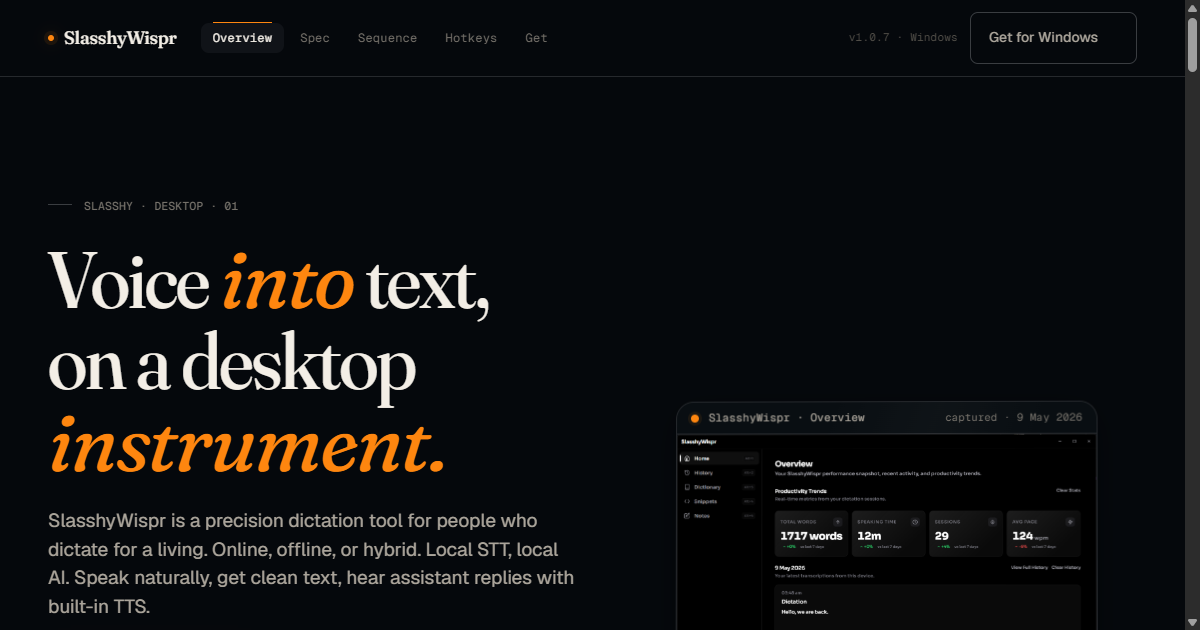
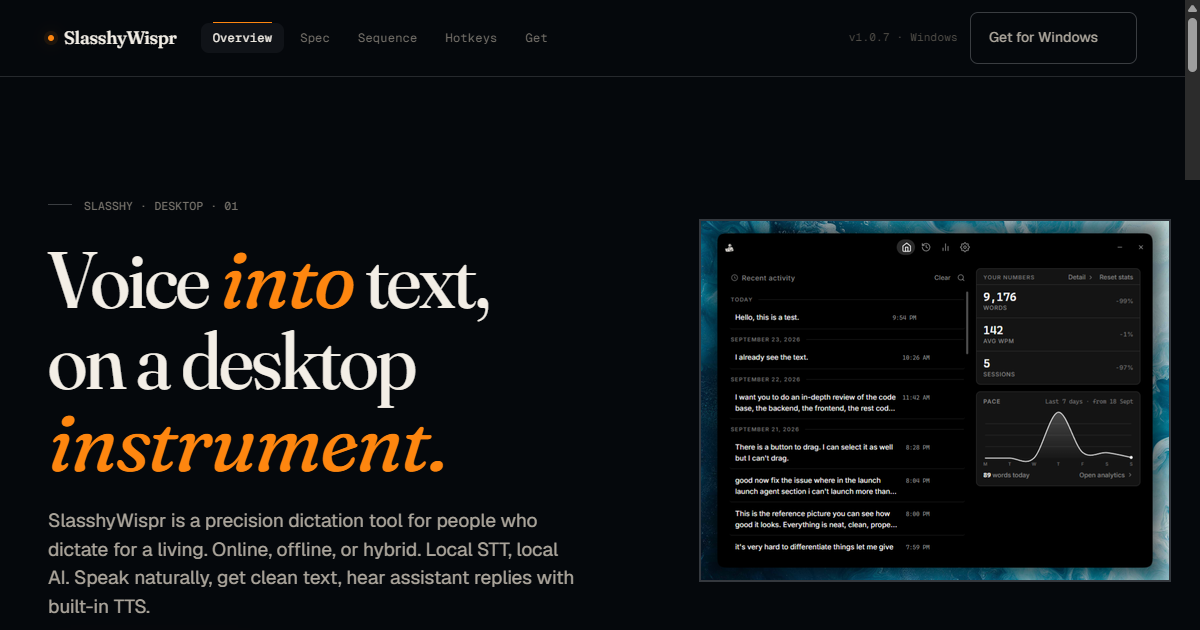
fix(site): refresh demo screenshot

Changed region(s): [[0.555, 0.2714, 1.0, 1.0], [0.7708, 0.4222, 0.8633, 0.6032], [0.74, 0.4825, 0.7708, 0.5127]]

diff --git a/site/index.html b/site/index.html
@@ -8,7 +8,7 @@
   <meta name="theme-color" content="#1a1d24" />
   <meta property="og:title" content="SlasshyWispr: voice dictation, on a desktop instrument" />
   <meta property="og:description" content="Online, offline, or hybrid. Local STT, local AI. A dictation tool for people who dictate for a living." />
-  <meta property="og:image" content="assets/og-cover.png" />
+  <meta property="og:image" content="assets/og-cover.png?v=4" />
   <meta property="og:type" content="website" />
   <link rel="icon" type="image/png" href="assets/logo.png" />
 
@@ -88,7 +88,7 @@
             </div>
 
             <p class="hero__spec-line t-mono-sm">
-              <span><span class="t-mono-sm" style="color:var(--ink-faint)">v</span>1.0.8</span>
+              <span><span class="t-mono-sm" style="color:var(--ink-faint)">v</span>1.0.11</span>
               <span class="hero__spec-sep" aria-hidden="true"></span>
               <span><span class="t-mono-sm" style="color:var(--ink-faint)">win</span>10+</span>
               <span class="hero__spec-sep" aria-hidden="true"></span>
@@ -103,21 +103,21 @@
             <div class="frame-app__titlebar">
               <span class="frame-app__titlebar-dot"></span>
               <span class="frame-app__titlebar-name">SlasshyWispr · Overview</span>
-              <span class="frame-app__titlebar-meta">captured · 7 Jul 2026</span>
+              <span class="frame-app__titlebar-meta">captured · 24 Sep 2026</span>
             </div>
             <div class="frame-app__viewport">
               <img
-                src="assets/slasshywispr_screenshot.png"
-                alt="SlasshyWispr Overview page in dark Studio Console style, showing productivity metrics and the latest dictation transcript."
-                width="1280" height="800"
+                src="assets/slasshywispr_screenshot.png?v=4"
+                alt="SlasshyWispr Overview page in dark Studio Console style, showing recent dictations, word count, pace, and session statistics."
+                width="848" height="652"
                 loading="eager"
                 decoding="async" />
             </div>
             <figcaption class="frame-app__annotation">
               <span class="rec-dot"></span>
-              <span>HOVER TO ZOOM</span>
+              <span>OPEN ZOOM</span>
             </figcaption>
-            <p class="visually-hidden" id="hero-frame-hint">Hover to open a larger view of the app.</p>
+            <p class="visually-hidden" id="hero-frame-hint">Select the screenshot to open a larger view of the app.</p>
           </figure>
 
         </div>
@@ -132,7 +132,7 @@
         <div class="section-head">
           <h2 class="section-head__title t-display-2" id="spec-title">The surface.</h2>
           <div class="section-head__meta">
-            <div class="t-mono-sm">VERSION 1.0.8</div>
+            <div class="t-mono-sm">VERSION 1.0.11</div>
           </div>
         </div>
 
@@ -223,7 +223,7 @@
               <div class="app__winbar">
                 <div class="app__winbar-meta">
                   <span class="meta__path">online.slasshy.slasshywispr.exe</span>
-                  <span class="meta__ver">v1.0.8</span>
+                  <span class="meta__ver">v1.0.11</span>
                 </div>
                 <div class="app__winbar-controls">
                   <span class="ctrl" aria-hidden="true">─</span>
@@ -310,7 +310,7 @@
                 </div>
 
                 <div class="conversation-log" id="conversation-log" role="log" aria-live="polite" aria-hidden="false">
-                  <div class="history-date-header"><span>7 JUL 2026</span></div>
+                  <div class="history-date-header"><span>24 SEP 2026</span></div>
 
                   <div class="conversation-entry is-user" data-conv="user">
                     <span class="entry-time">03:48 AM</span>
@@ -630,7 +630,7 @@
         <div class="get__grid">
 
           <div class="get__copy">
-            <h2 class="t-display-2" id="download-title">SlasshyWispr 1.0.8</h2>
+            <h2 class="t-display-2" id="download-title">SlasshyWispr 1.0.11</h2>
             <p class="t-lede">One installer. No account required. No telemetry. Just dictation that works.</p>
 
             <div class="get__primary">
@@ -687,14 +687,14 @@
     <div class="frame-zoom__chrome">
       <span class="frame-zoom__dot"></span>
       <span class="frame-zoom__name">SlasshyWispr · Overview</span>
-      <span class="frame-zoom__meta">captured · 7 Jul 2026</span>
+      <span class="frame-zoom__meta">captured · 24 Sep 2026</span>
     </div>
     <div class="frame-zoom__viewport">
-      <img src="assets/slasshywispr_screenshot.png" alt="SlasshyWispr overview detail" />
+      <img src="assets/slasshywispr_screenshot.png?v=4" alt="SlasshyWispr overview detail" width="848" height="652" />
     </div>
     <div class="frame-zoom__legend">
       <span class="t-mono-sm">TAP TO DISMISS</span>
-      <span class="t-mono-sm">SLASSHY · 1.0.8 · 7 JUL 2026</span>
+      <span class="t-mono-sm">SLASSHY · 1.0.11 · 24 SEP 2026</span>
     </div>
   </div>
 </div>

diff --git a/site/styles/layout.css b/site/styles/layout.css
@@ -193,7 +193,7 @@
 }
 
 @media (max-width: 880px) {
-  .hero__grid { grid-template-columns: 1fr; }
+  .hero__grid { grid-template-columns: minmax(0, 1fr); }
 }
 
 .hero__copy { max-width: 56ch; position: relative; }
@@ -235,6 +235,19 @@
   height: 12px;
   background: var(--border-line);
   align-self: center;
+}
+
+@media (max-width: 560px) {
+  .titlebar { gap: var(--space-3); }
+  .titlebar__nav,
+  .titlebar__version,
+  .titlebar__actions .btn-nav { display: none; }
+  .titlebar__actions { margin-left: auto; }
+  .hero__copy-actions { flex-wrap: wrap; }
+  .hero__copy-actions .btn {
+    flex: 1 1 100%;
+    justify-content: center;
+  }
 }
 
 /* ----- The actual-screenshot frame ----- */
@@ -291,6 +304,10 @@
   font-size: 10.5px;
   color: var(--ink-muted);
   letter-spacing: 0.02em;
+}
+
+@media (max-width: 560px) {
+  .frame-app__titlebar-meta { display: none; }
 }
 
 .frame-app__viewport {

diff --git a/README.md b/README.md
@@ -7,7 +7,7 @@ SlasshyWispr is a Windows desktop voice dictation app.
 Speak naturally, get clean transcription, generate AI responses, and hear replies with built-in Piper TTS.
 
 ![Windows only](https://img.shields.io/badge/platform-Windows%20only-blue)
-[![SlasshyWispr screenshot](./assets/slasshywispr_screenshot.png?v=3)](./assets/slasshywispr_screenshot.png?v=3)
+[![SlasshyWispr screenshot](./assets/slasshywispr_screenshot.png?v=4)](./assets/slasshywispr_screenshot.png?v=4)
 
 ## Key Features
 
